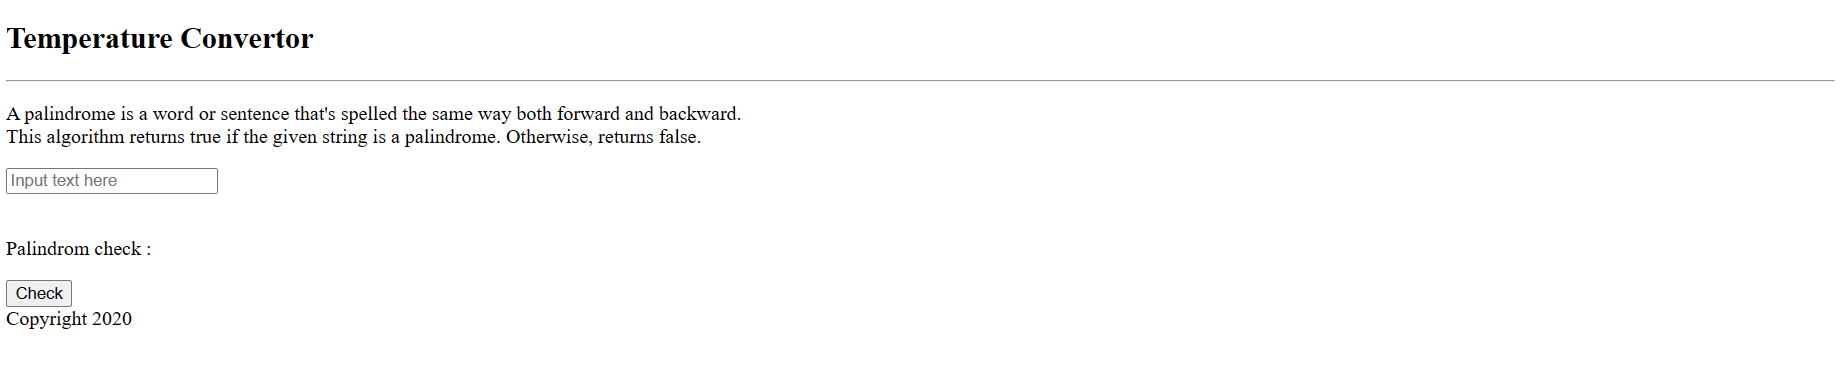
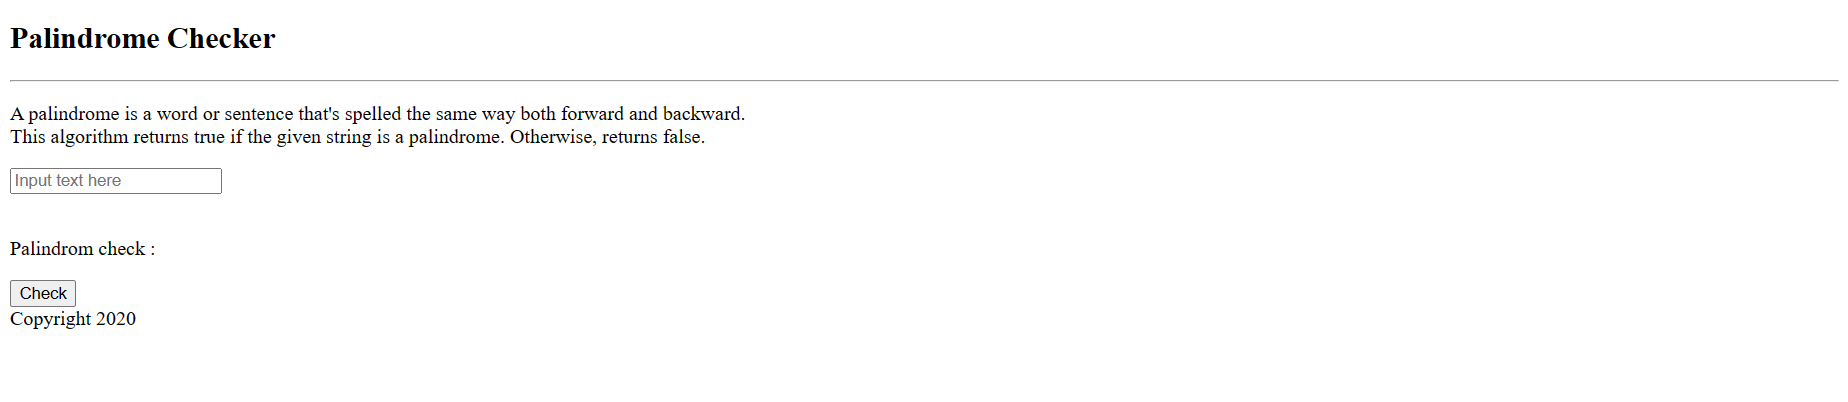
Update Released

diff --git a/written-js-scripts/templates/palindrome.html b/written-js-scripts/templates/palindrome.html
@@ -4,7 +4,7 @@
 <head>
   <meta charset="UTF-8" />
   <meta name="viewport" content="width=device-width, initial-scale=1.0" />
-  <title>Temperature Convertor | Js Apps</title>
+  <title>Palindrom Checker | Js Apps</title>
   <meta name="description" content="Fast convert temperature units, Celsius, , Rankine ,Fahrenheit, many others." />
   <link href="https://fonts.googleapis.com/css2?family=Kumbh+Sans&display=swap" rel="stylesheet" />
   <link rel="stylesheet" href="../fontawesome/../css/all.min.css" />
@@ -22,7 +22,7 @@
       <div class="tm-main">
         <!-- Home section -->
         <div class="tm-section-wrap">
-          <h2 class="tm-text-primary">Temperature Convertor</h2>
+          <h2 class="tm-text-primary">Palindrome Checker</h2>
           <hr class="mb-5" />
           <section id="home" class="tm-section">
             <div class="row">

diff --git a/js-syntax-dir-app/static/js/data.js b/js-syntax-dir-app/static/js/data.js
@@ -68,14 +68,14 @@ const data = {
     'elseif(){} ',
     ' elseif(){}', 
     'else{}'],
-  "switch statement": ['→ switch(param)',
+  "switch statement": ['→ a):',
+                          ' break'],
+  "create an object": [` →  var objswitch(param)',
                             'case (a):',
                            ' break',
                            ' case (b):',
                             'break',
-                           ' default (a):',
-                          ' break'],
-  "create an object": [` →  var obj = {
+                           ' default ( = {
         "name": "Whiskers",
         "legs": 4,
         "tails": 1,

diff --git a/written-js-scripts/pages/views.py b/written-js-scripts/pages/views.py
@@ -4,7 +4,7 @@ from django.shortcuts import render
 def home(request , *args , **kwargs):
     return render(request , "index.html" , {})
 def time(request , *args , **kwargs):
-    return render(request , "time.html" , {})
+    return render(request , "schedule.html" , {})
 def palind(request , *args , **kwargs):
     return render(request , "palindrome.html" , {})
 def sch(request , *args , **kwargs):
